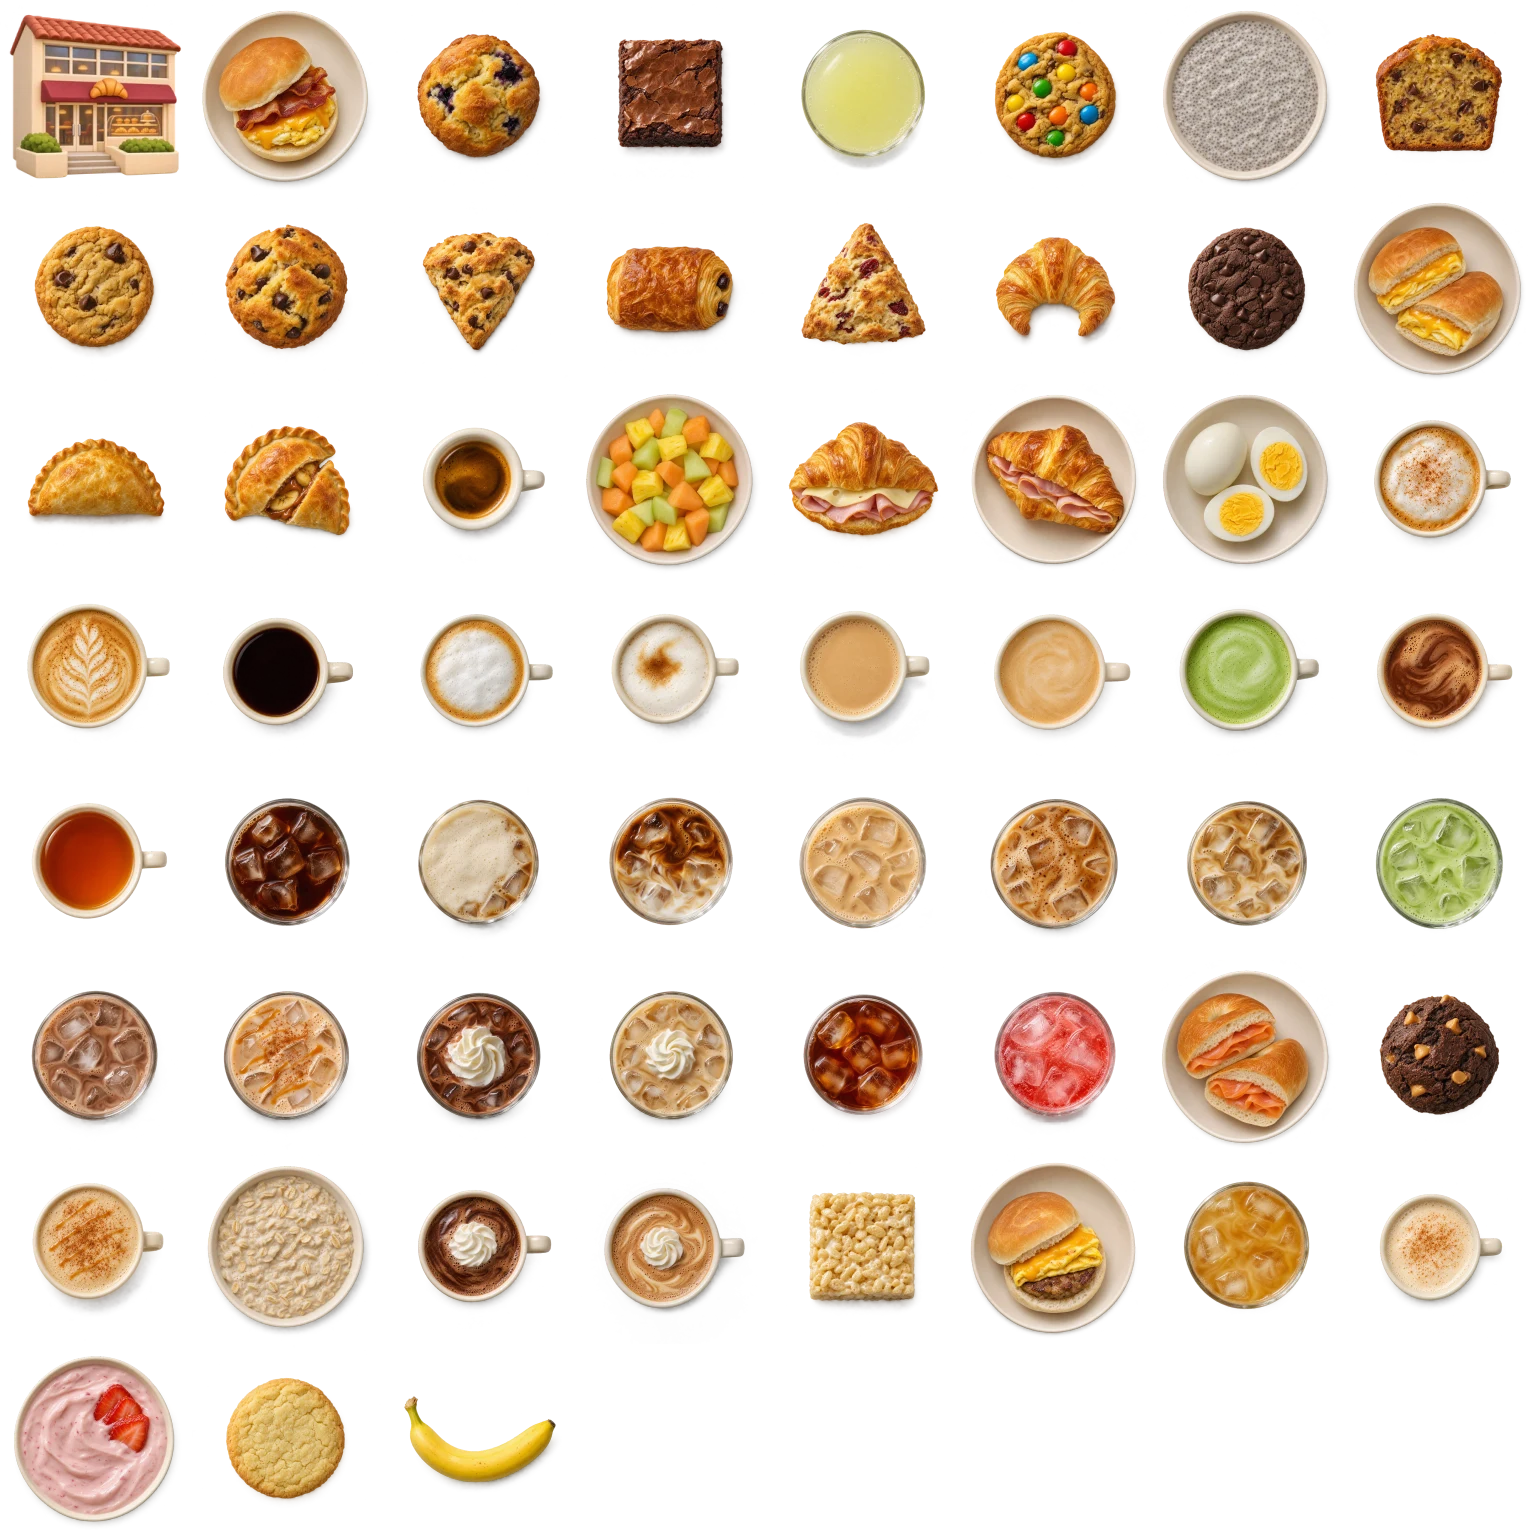
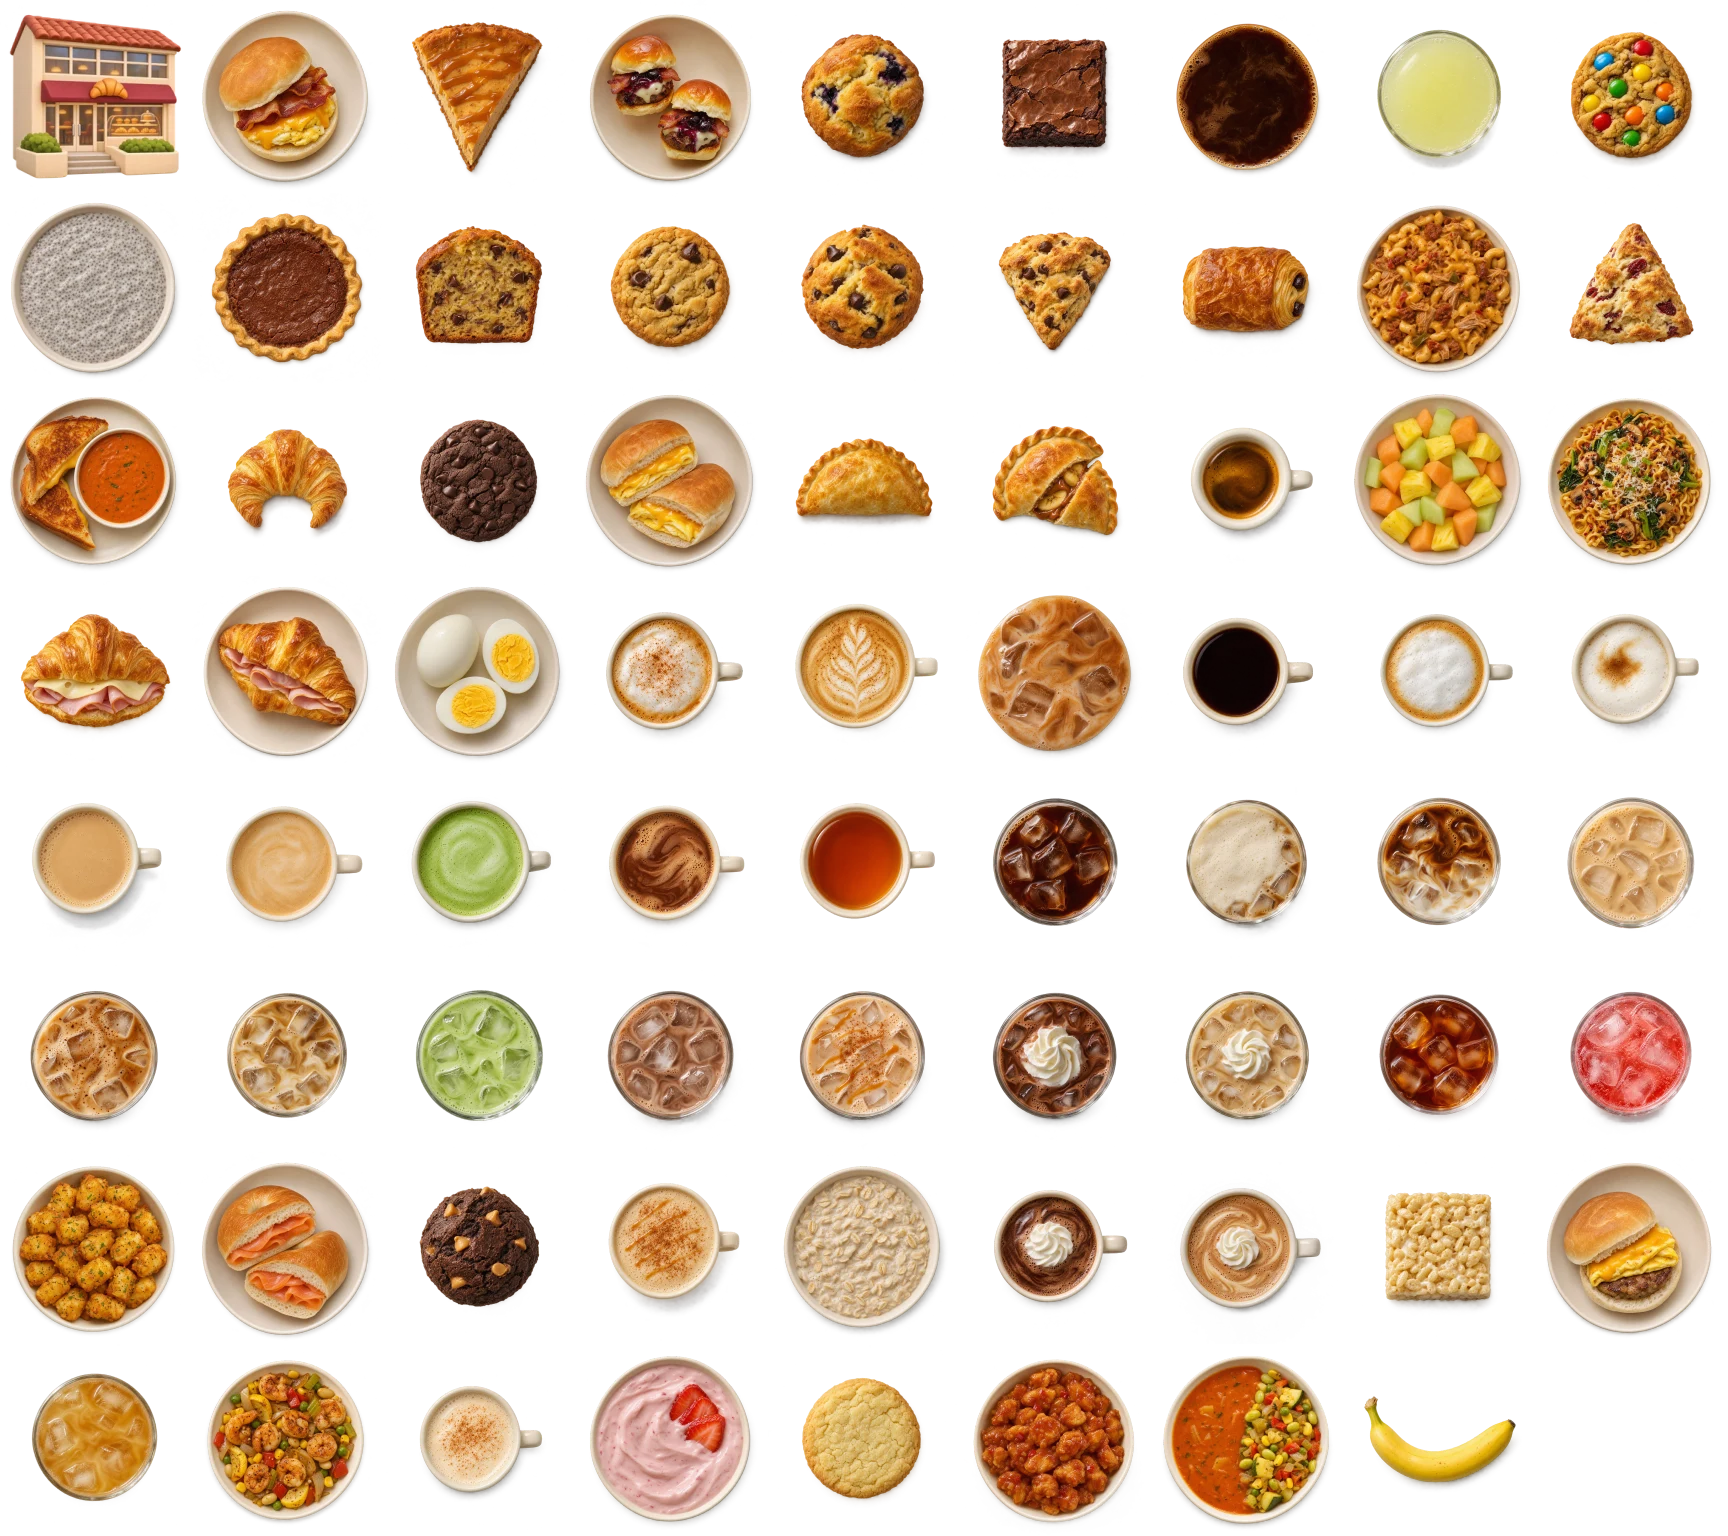
feat(menu): add randomized café thumbnail collages

diff --git a/src/components/cafe-menu.tsx b/src/components/cafe-menu.tsx
@@ -1,5 +1,5 @@
-import { type ReactNode } from "react";
-import { Link, type Href } from "expo-router";
+import { useEffect, useRef, useState, type ReactNode } from "react";
+import { Link, usePathname, type Href } from "expo-router";
 import {
   ScrollView,
   StyleSheet,
@@ -27,7 +27,11 @@ import {
   tabContentBottomPadding,
 } from "./ui";
 import { MenuEntrance } from "./MenuEntrance";
-import { BakeryThumbnail, useBakeryThumbnails } from "./bakery-thumbnail";
+import {
+  BakeryThumbnail,
+  makePicker,
+  useBakeryThumbnails,
+} from "./bakery-thumbnail";
 
 const sectionLabels = new Map([
   ["Pastries", "Pastries"],
@@ -51,6 +55,58 @@ function menuPrice(offering?: Offering) {
 
 type MenuItem = { food: Food; offering?: Offering; meal?: string };
 
+const coverSize = 96;
+const collageSize = 120;
+const pairLayout = [
+  { size: 64, left: 2, top: 10, angle: "-8deg" },
+  { size: 61, left: 30, top: 25, angle: "7deg" },
+];
+const trioLayout = [
+  { size: 57, left: 3, top: 10, angle: "-9deg" },
+  { size: 54, left: 39, top: 12, angle: "8deg" },
+  { size: 57, left: 21, top: 33, angle: "-3deg" },
+];
+
+function CafeCategoryCover({
+  sources,
+  size,
+  fallback,
+}: {
+  sources: number[];
+  size: number;
+  fallback: ReactNode;
+}) {
+  if (sources.length < 2)
+    return (
+      <BakeryThumbnail source={sources[0]} size={size} fallback={fallback} />
+    );
+
+  const layout = sources.length === 2 ? pairLayout : trioLayout;
+  const scale = size / coverSize;
+  return (
+    <View
+      style={{ width: size, height: size }}
+      accessibilityElementsHidden
+      importantForAccessibility="no-hide-descendants"
+    >
+      {layout.map(({ size: itemSize, left, top, angle }, index) => (
+        <BakeryThumbnail
+          key={sources[index]}
+          source={sources[index]}
+          size={itemSize * scale}
+          style={{
+            position: "absolute",
+            left: left * scale,
+            top: top * scale,
+            transform: [{ rotate: angle }],
+          }}
+          fallback={null}
+        />
+      ))}
+    </View>
+  );
+}
+
 function categoryLabel(category: string) {
   return (
     sectionLabels.get(category) ?? (menuSectionLabel(category) || "Other Items")
@@ -63,17 +119,32 @@ export function CafeMenu({
   children,
   refreshControl,
   tab = false,
+  collage = false,
 }: {
   items: MenuItem[];
   categoryHref: (category: string) => Href;
   children?: ReactNode;
   refreshControl?: ScrollViewProps["refreshControl"];
   tab?: boolean;
+  collage?: boolean;
 }) {
   const { colors, s } = useTheme();
   const { bottom } = useSafeAreaInsets();
   const { catalog } = useApp();
   const { picks } = useBakeryThumbnails();
+  const [pickCollage, setPickCollage] = useState(() =>
+    collage ? makePicker() : picks.categories,
+  );
+  const pathname = usePathname();
+  const menuPath = useRef(pathname);
+  const previousPath = useRef(pathname);
+  useEffect(() => {
+    const returned =
+      pathname === menuPath.current && pathname !== previousPath.current;
+    previousPath.current = pathname;
+    if (collage && returned) setPickCollage(makePicker);
+  }, [collage, pathname]);
+  const pickCovers = collage ? pickCollage : picks.categories;
   const groups = new Map<string, MenuItem[]>();
   for (const item of items) {
     const key = cafeMenuCategory(item.food, item.offering);
@@ -103,8 +174,9 @@ export function CafeMenu({
           if (!items) return null;
           const label = categoryLabel(key);
           const count = `${items.length} ${items.length === 1 ? "item" : "items"}`;
-          const cover = picks.categories(
+          const covers = pickCovers(
             items.map(({ food }) => foodArtwork(catalog, food)),
+            collage ? 3 : 1,
           );
           return (
             <MenuEntrance
@@ -126,11 +198,15 @@ export function CafeMenu({
                     marginHorizontal: -12,
                     marginVertical: 4,
                   }}
-                  contentStyle={[styles.categoryRow, fillRows && styles.grow]}
+                  contentStyle={[
+                    styles.categoryRow,
+                    collage && styles.collageRow,
+                    fillRows && styles.grow,
+                  ]}
                 >
-                  <BakeryThumbnail
-                    source={cover}
-                    size={96}
+                  <CafeCategoryCover
+                    sources={covers}
+                    size={collage ? collageSize : coverSize}
                     fallback={
                       <Icon
                         name="restaurant-outline"
@@ -252,6 +328,7 @@ const styles = StyleSheet.create({
     paddingVertical: 10,
     paddingHorizontal: 12,
   },
+  collageRow: { paddingVertical: 4 },
   categoryCopy: { flex: 1, gap: 4 },
   categoryName: { fontSize: 17, fontWeight: "600", letterSpacing: -0.4 },
   cafeName: { marginTop: 12, marginBottom: 12 },

diff --git a/src/components/bakery-thumbnail.tsx b/src/components/bakery-thumbnail.tsx
@@ -18,23 +18,14 @@ const bakeryThumbnailSheet = require("../../assets/bakery-thumbnails.webp");
 const tiles = new Map(sheet.keys.map((key, index) => [assets[key], index]));
 
 // One random priority per image keeps a visit's choices stable if the menu is re-ranked.
-function makePicker() {
+export function makePicker() {
   const priorities = new Map(
     Object.values(assets).map((source) => [source, Math.random()]),
   );
-  return (sources: Iterable<number | undefined>) => {
-    let best: number | undefined;
-    let lowest = Infinity;
-    for (const source of sources) {
-      if (source == null) continue;
-      const priority = priorities.get(source) ?? 1;
-      if (priority < lowest) {
-        best = source;
-        lowest = priority;
-      }
-    }
-    return best;
-  };
+  return (sources: (number | undefined)[], count = 1) =>
+    [...new Set(sources.filter((source) => source != null))]
+      .sort((a, b) => (priorities.get(a) ?? 1) - (priorities.get(b) ?? 1))
+      .slice(0, count);
 }
 
 const initialPicks = { menu: makePicker(), categories: makePicker() };

diff --git a/src/components/bakery-menu-art.tsx b/src/components/bakery-menu-art.tsx
@@ -54,7 +54,7 @@ export function BakeryMenuArt({ date }: { date: string }) {
     ];
   }, [catalog, date]);
 
-  const [drink, pastry] = pools.map(picks.menu);
+  const [drink, pastry] = pools.map((pool) => picks.menu(pool)[0]);
   if (drink == null && pastry == null)
     return (
       <BakeryThumbnail source={assets["cafes/mission-bakery"]} size={96} />

diff --git a/src/components/kitchen-menu.tsx b/src/components/kitchen-menu.tsx
@@ -158,6 +158,7 @@ export function KitchenMenu({
         {foods.length > 0 ? (
           cafeMenu ? (
             <CafeMenu
+              collage={kitchen !== BAKERY_KEY}
               items={cafeItems}
               categoryHref={(category) => ({
                 pathname: "/kitchen/[key]/[category]",

diff --git a/src/components/campus-menu.tsx b/src/components/campus-menu.tsx
@@ -71,6 +71,7 @@ export function CampusMenu({
   return (
     <CafeMenu
       tab
+      collage
       items={items}
       categoryHref={(category) => ({
         pathname: "/cafe/[key]/[category]",
